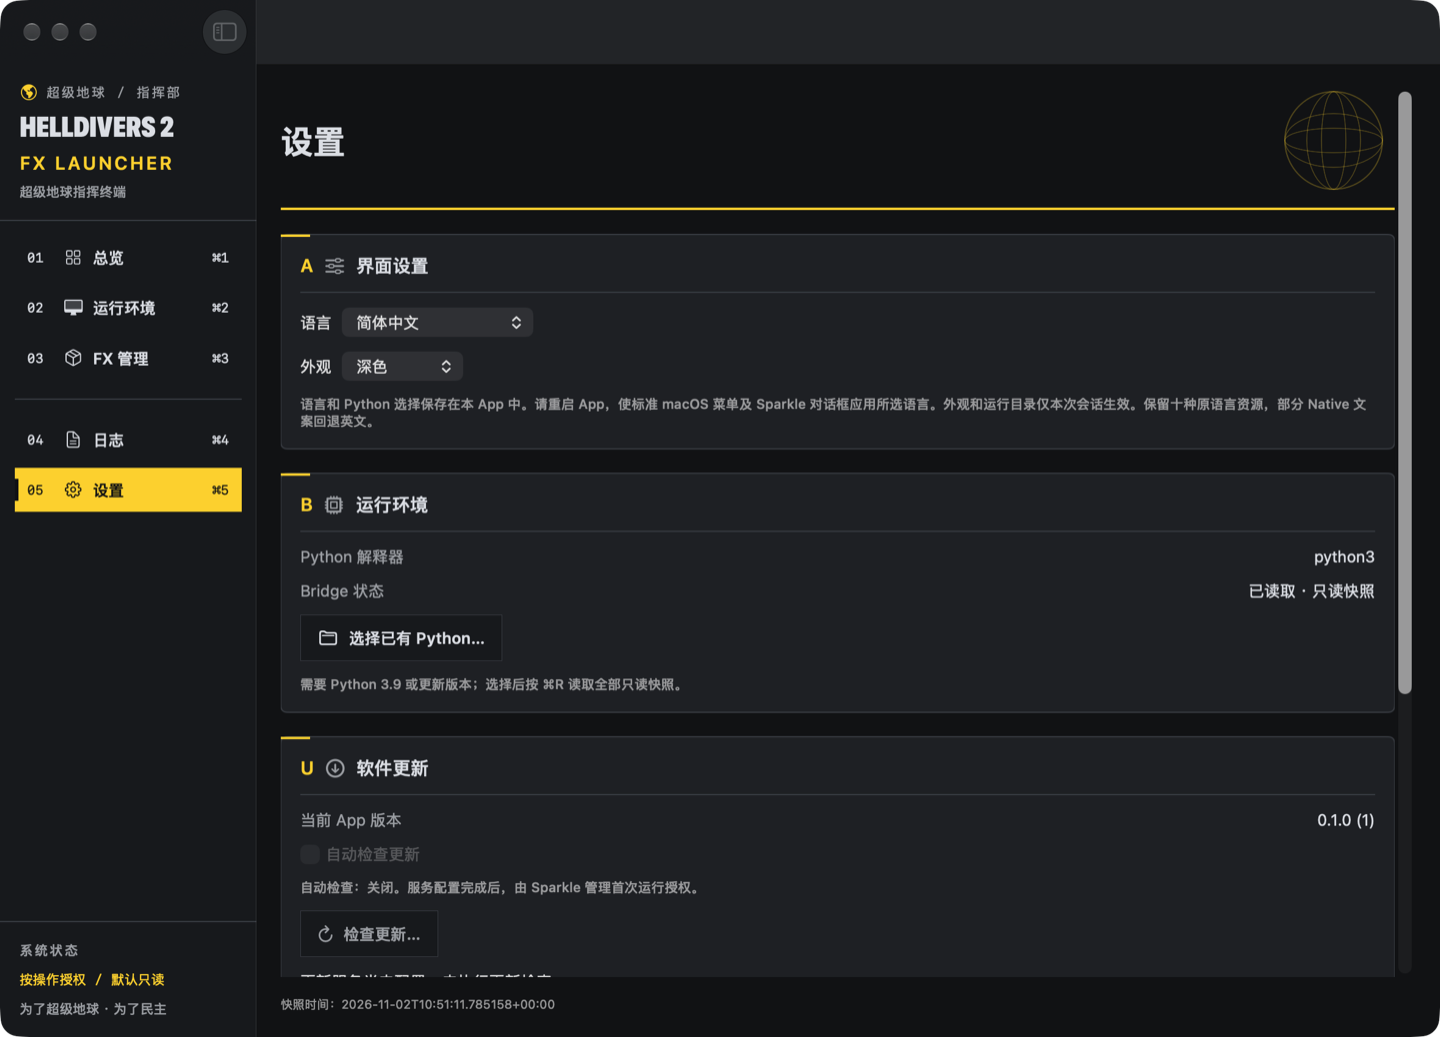
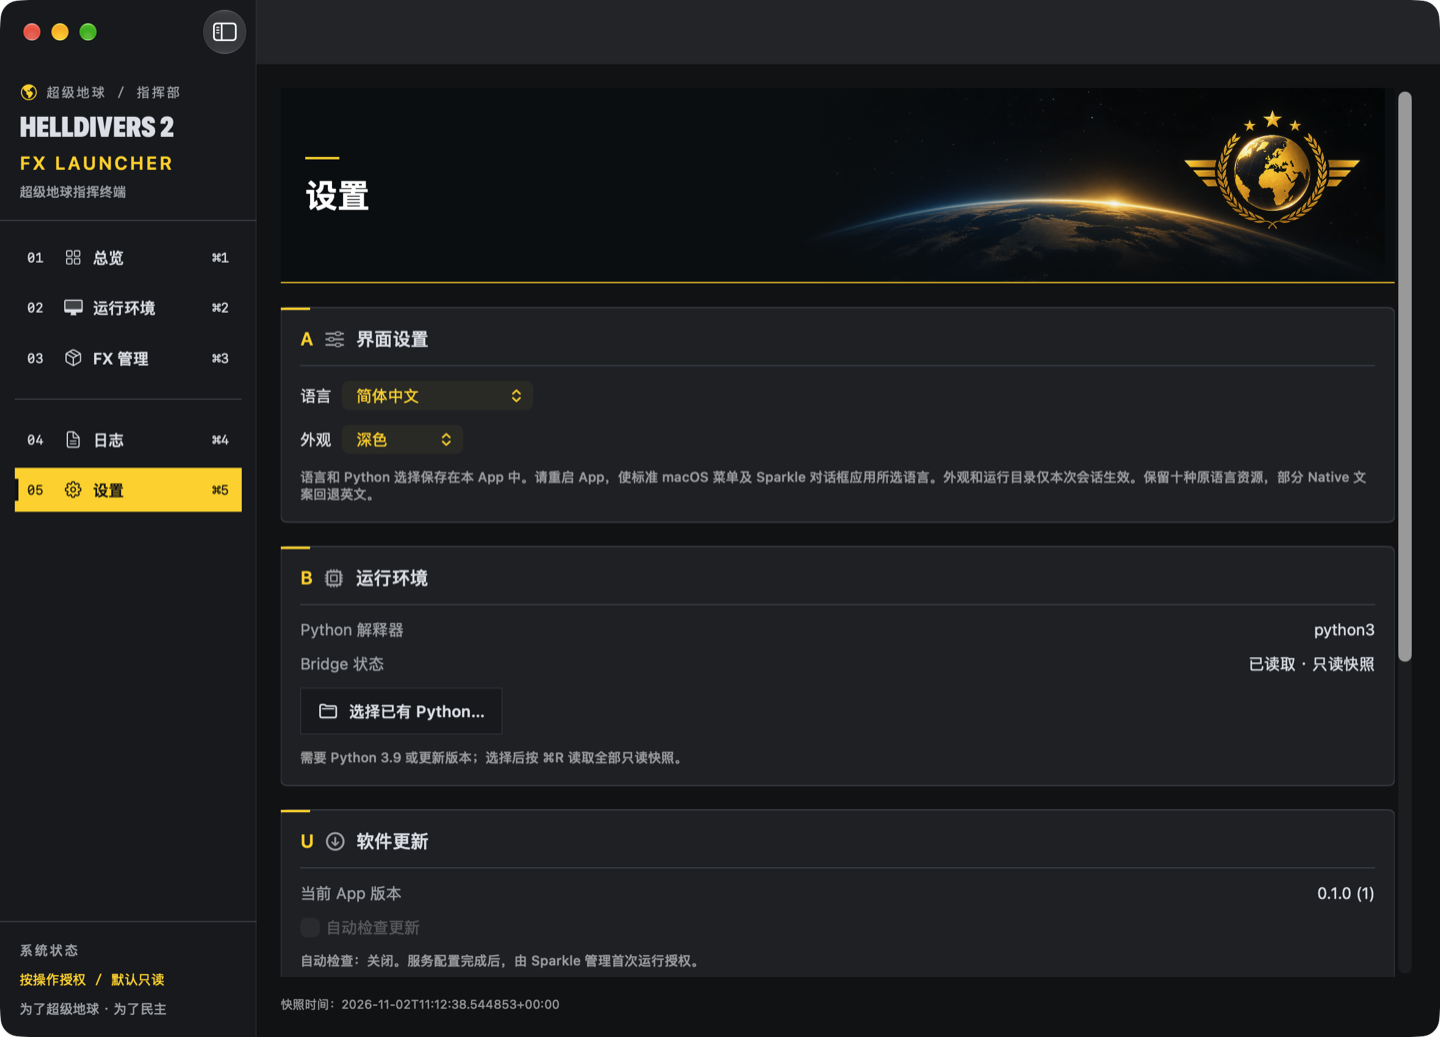
feat(native-ui): integrate super earth header artwork

diff --git a/native-app/App/DesignSystem/TacticalComponents.swift b/native-app/App/DesignSystem/TacticalComponents.swift
@@ -167,49 +167,50 @@ struct TacticalNavigationItem: View {
     }
 }
 
-struct SuperEarthGlobeDecoration: View {
-    @Environment(\.colorScheme) private var scheme
-    var body: some View {
-        Canvas { context, size in
-            let rect = CGRect(x: 10, y: 3, width: 80, height: 80)
-            let color = TacticalColors(scheme: scheme).accent.opacity(0.28)
-            context.stroke(Path(ellipseIn: rect), with: .color(color), lineWidth: 1)
-            for fraction in [0.25, 0.55] {
-                context.stroke(Path(ellipseIn: CGRect(x: 50 - 40 * fraction, y: 3, width: 80 * fraction, height: 80)), with: .color(color), lineWidth: 0.7)
-                context.stroke(Path(ellipseIn: CGRect(x: 10, y: 43 - 40 * fraction, width: 80, height: 80 * fraction)), with: .color(color), lineWidth: 0.7)
-            }
-        }.frame(width: 100, height: 86).accessibilityHidden(true).allowsHitTesting(false)
-    }
-}
-
-// One content heading per page; navigation identity belongs to the sidebar.
+// One shared secondary-page banner. Artwork is bundled, decorative and noninteractive.
 struct TacticalPageHeader: View {
     let title: String
     var refreshState: AppState? = nil
-    @Environment(\.colorScheme) private var scheme
+    private let height: CGFloat = 160
     var body: some View {
-        let c = TacticalColors(scheme: scheme)
-        VStack(alignment: .leading, spacing: 12) {
-            HStack(spacing: 12) {
-                ViewThatFits(in: .horizontal) {
-                    HStack(alignment: .firstTextBaseline, spacing: 12) {
-                        pageTitle
-                        Spacer(minLength: 12)
-                        if let refreshState { TacticalRefreshButton(state: refreshState, tasks: refreshState.tasks) }
+        GeometryReader { geometry in
+            ZStack(alignment: .leading) {
+                Color(red: 0.035, green: 0.043, blue: 0.055)
+                Image("SuperEarthSpaceHeader")
+                    .resizable()
+                    .aspectRatio(contentMode: .fit)
+                    // Fit the entire vertical composition, including all stars and wings.
+                    // On narrow windows only spare scenery at the left may leave the bounds.
+                    .frame(width: height * 3, height: height)
+                    .mask(LinearGradient(stops: [
+                        .init(color: .clear, location: 0),
+                        .init(color: .white, location: 0.45),
+                        .init(color: .white, location: 1)
+                    ], startPoint: .leading, endPoint: .trailing))
+                    .frame(width: geometry.size.width - 8, height: height, alignment: .trailing)
+                    .accessibilityHidden(true).allowsHitTesting(false)
+                VStack(alignment: .leading, spacing: 12) {
+                    Rectangle().fill(TacticalColors(scheme: .dark).yellow).frame(width: 28, height: 2)
+                    HStack(alignment: .center, spacing: 12) {
+                        Text(title).font(TacticalTypography.page).foregroundStyle(.white)
+                            .fixedSize(horizontal: false, vertical: true)
+                            .accessibilityIdentifier("page.title").accessibilityAddTraits(.isHeader)
+                        if let refreshState {
+                            TacticalRefreshButton(state: refreshState, tasks: refreshState.tasks)
+                                .fixedSize()
+                        }
                     }
-                    VStack(alignment: .leading, spacing: 10) {
-                        pageTitle
-                        if let refreshState { TacticalRefreshButton(state: refreshState, tasks: refreshState.tasks) }
-                    }
-                }.frame(maxWidth: .infinity, alignment: .leading)
-                SuperEarthGlobeDecoration()
+                }
+                // Reserve the right-hand emblem region so neither title nor button covers it.
+                .frame(width: max(1, geometry.size.width - 230), alignment: .leading)
+                .padding(.leading, 20)
             }
-            Rectangle().fill(c.yellow).frame(height: 2)
+            .clipped()
+            .overlay(alignment: .bottom) {
+                Rectangle().fill(TacticalColors(scheme: .dark).yellow).frame(height: 1)
+            }
         }
-    }
-    private var pageTitle: some View {
-        Text(title).font(TacticalTypography.page).foregroundStyle(TacticalColors(scheme: scheme).text)
-            .accessibilityIdentifier("page.title").accessibilityAddTraits(.isHeader)
+        .frame(height: height)
     }
 }
 
@@ -308,7 +309,10 @@ struct TacticalRefreshButton: View {
             }.font(TacticalTypography.caption).padding(.horizontal, 9).padding(.vertical, 7)
         }
         .buttonStyle(.plain)
-        .overlay(Rectangle().stroke(.secondary.opacity(0.4)))
+        .foregroundStyle(Color(white: 0.92))
+        .background(Color(white: 0.14))
+        .overlay(Rectangle().stroke(Color(white: 0.38), lineWidth: 1))
+        .opacity(tasks.busy ? 0.55 : 1)
         .disabled(tasks.busy)
         .help(state.t("刷新全部只读快照：本机环境、依赖、FX 安装、会话日志及功能清单；不会启动或修改运行环境。也可按 ⌘R。", "Refresh all read-only snapshots: host environment, dependencies, FX installations, session logs and capabilities. No runtime starts or changes. Also available with ⌘R."))
         .accessibilityIdentifier("refresh")

diff --git a/native-app/Support/SmokeRunner.swift b/native-app/Support/SmokeRunner.swift
@@ -317,6 +317,8 @@ import ApplicationServices
                 result["inspection_status_mapping"] = "PASS"
             }
             guard NSImage(named: "HelldiverHero") != nil else { throw ErrorState("HERO_ASSET_MISSING") }
+            guard let header = NSImage(named: "SuperEarthSpaceHeader"), abs(header.size.width / header.size.height - 3) < 0.01 else { throw ErrorState("HEADER_ASSET_MISSING") }
+            result["header_asset"] = "SuperEarthSpaceHeader loaded with original 3:1 ratio"
             state.chinese = true; state.appearance = .dark
             window.setContentSize(NSSize(width: 1180, height: 850))
             try await Task.sleep(nanoseconds: 300_000_000)
@@ -334,8 +336,8 @@ import ApplicationServices
                 files.append(file)
             }
             state.selection = .dashboard
-            for variant in (polish ? ["en-dark-minimum-logs", "en-dark-minimum-settings"] : heroOnly ? ["zh-dark-minimum-dashboard"] : ["en-dark-dashboard", "zh-light-dashboard", "zh-dark-minimum-dashboard"]) {
-                if polish { state.selection = variant.hasSuffix("logs") ? .logs : .settings }
+            for variant in (polish ? ["en-dark-minimum-logs", "en-dark-minimum-fx"] : heroOnly ? ["zh-dark-minimum-dashboard"] : ["en-dark-dashboard", "zh-light-dashboard", "zh-dark-minimum-dashboard"]) {
+                if polish { state.selection = variant.hasSuffix("logs") ? .logs : .fx }
                 state.chinese = !variant.hasPrefix("en")
                 state.appearance = variant.contains("light") ? .light : .dark
                 if variant.contains("minimum") { window.setContentSize(NSSize(width: 850, height: 560)) }
@@ -350,6 +352,12 @@ import ApplicationServices
             result["runtime_evidence"] = state.results["get_environment_status"]?["status"]?.text ?? "unknown"
             result["soldier_asset"] = "HelldiverHero asset catalog image loaded"
             result["result"] = state.observedAt == snapshot ? "PASS" : "FAIL"
+            if polish {
+                state.refresh()
+                try await waitForTask(state)
+                guard state.error == nil, state.observedAt != snapshot else { throw ErrorState("READ_ONLY_REFRESH_FAILED") }
+                result["read_only_refresh"] = "PASS"
+            }
             window.setContentSize(NSSize(width: 1180, height: 850))
             state.chinese = true; state.appearance = .dark
         } catch { result["result"] = "FAIL"; result["error"] = (error as? ErrorState)?.code ?? "UI_CHECK_FAILED" }

diff --git a/native-app/Views/LogsView.swift b/native-app/Views/LogsView.swift
@@ -38,7 +38,7 @@ struct LogsView: View {
     var body: some View {
         let c = TacticalColors(scheme: scheme)
         VStack(alignment: .leading, spacing: 18) {
-            TacticalPageHeader(title: state.t("运行日志", "Session logs"))
+            TacticalPageHeader(title: state.t("运行日志", "Session logs"), refreshState: state)
             TacticalWarningBanner(text: state.t("仅本次会话 App 与 Bridge 日志。原始日志没有等级字段时显示“未标级”，不会推断成功等级。", "App and bridge logs from this session only. Entries without an explicit severity remain unclassified; success is not inferred."))
             LegacyOperationsView(state: state, scope: "logs")
             ViewThatFits(in: .horizontal) {
@@ -70,7 +70,6 @@ struct LogsView: View {
     }
     private var logActions: some View {
         HStack(spacing: 8) {
-            TacticalRefreshButton(state: state, tasks: state.tasks)
             copyButton
         }
     }

diff --git a/AGENTS.md b/AGENTS.md
@@ -1,7 +1,7 @@
 # Native App development
 
-Instruction version: **v1.2.3** · Updated: **2026-11-02**.
-Change: prioritize real Native game launch validation, explicit menu confirmation and structured redacted launch diagnostics.
+Instruction version: **v1.2.4** · Updated: **2026-11-02**.
+Change: use the supplied space-header artwork on four shared secondary-page headers; preserve Dashboard and all runtime behavior.
 
 - Architecture: SwiftUI + narrowly scoped AppKit; one AppState and existing Service Layer. Refresh remains read-only. The functional migration permits allowlisted Core actions through the supervised Bridge, with explicit user initiation and consent for writes/launch/SSH. Unknown/unverified is never success. Development tests use isolated fixtures; real game/network/system changes require the corresponding user action.
 - Work on `feature/macos-native-app`; batch related changes, verify the affected behavior, commit and push the feature branch. Merge substantial completed stages into main only after appropriate checks. Never force-push, rewrite unknown history, delete releases/tags, or overwrite another developer's changes.
@@ -19,11 +19,13 @@ Change: prioritize real Native game launch validation, explicit menu confirmatio
 - Large complete development instructions require independent semantic versions (`vMAJOR.MINOR.PATCH`). Rule/workflow/testing/GitHub/budget changes that update the complete instruction default to a patch increment; larger process changes increment minor/major appropriately. Ordinary code changes do not increment instruction versions. Never reuse/reset versions. Record only current version, date and a short change note in this file; do not duplicate full prompt history. Instruction and software versions are independent.
 - Completion reports: completed work, GitHub branch state, necessary verification, real remaining issues, next direction. Keep them brief.
 
-UI instruction: **HD2_NATIVE_APP_UI_REFINEMENT_v1.0.2** · 2026-11-02. Five-page tactical visual system; the supplied generated soldier image is bundled as HelldiverHero and is Dashboard-only. Environment, FX, Logs and Settings share one small upper-right wireframe globe. Never use a whole UI preview as artwork or copy its example health states. Keep absent metadata explicit.
+UI instruction: **HD2_NATIVE_APP_UI_REFINEMENT_v1.0.2** · 2026-11-02. Five-page tactical visual system; the supplied generated soldier image is bundled as HelldiverHero and is Dashboard-only. Environment, FX, Logs and Settings use the shared space banner under the newer header-asset instruction. Never use a whole UI preview as artwork or copy its example health states. Keep absent metadata explicit.
 
-UI polish instruction: **HD2_NATIVE_APP_UI_POLISH_v1.0.1** · 2026-11-02. No titlebar refresh control. Keep full read-only refresh on Dashboard Check Environment, Environment/FX page headers, Logs toolbar and Cmd-R; Settings has no independent refresh. Use Network and connection tools / FX diagnostics / Diagnostic reports / Advanced configuration names. Distinguish not checked, checking, normal, action needed, failed and cannot confirm using actual probe scope. Installation metadata never establishes an active FX/Guest or EAC/multiplayer health. Keep update controls before advanced configuration and use adaptive tool grids. Preserve existing authorization, session-only credentials and redaction.
+UI polish instruction: **HD2_NATIVE_APP_UI_POLISH_v1.0.1** · 2026-11-02. No titlebar refresh control. Keep full read-only refresh on Dashboard Check Environment, Environment/FX/Logs page headers and Cmd-R; Settings has no independent refresh. Use Network and connection tools / FX diagnostics / Diagnostic reports / Advanced configuration names. Distinguish not checked, checking, normal, action needed, failed and cannot confirm using actual probe scope. Installation metadata never establishes an active FX/Guest or EAC/multiplayer health. Keep update controls before advanced configuration and use adaptive tool grids. Preserve existing authorization, session-only credentials and redaction.
 
 Information hierarchy instruction: **HD2_NATIVE_APP_UI_INFORMATION_HIERARCHY_v1.0.0** · 2026-11-02. Keep page names/numbers in the sidebar and one main heading in content. Remove redundant window page titles, content breadcrumbs and Dashboard command masthead. Place page actions beside the heading with a narrow-window fallback. Keep global read-only policy in the sidebar, component evidence at its component, and preserve all errors, risk/consent details, card functions and existing bindings.
+
+Header artwork instruction: **HD2_NATIVE_APP_HEADER_ASSET_REFINEMENT_v1.0.0** · 2026-11-02. Bundle the supplied standalone SuperEarthSpaceHeader artwork in Assets.xcassets; use it only in the shared TacticalPageHeader on Environment, FX, Logs and Settings, replacing the wireframe globe. Preserve aspect ratio and full emblem, reserve its right region, keep one title and a small refresh control beside it where refresh already exists. Logs keeps the same read-only refresh action; Settings has no new refresh. Dashboard hero/layout and all launch, credential, updater and Bridge behavior remain unchanged.
 
 Functional instruction: **HD2_NATIVE_APP_FUNCTION_MIGRATION_v1.0.0** · 2026-11-02. Reuse actual archived behavior; no fabricated success, EAC or multiplayer inference. Keep target/hash/boot guards and exact-change approvals. Preserve unknown configuration with revision checking, backup and atomic replacement. Bound/redact logs and provide cancellation. No FX installation changes, file deletion or high-risk system actions without explicit confirmation. Original locale coverage and new Native translation coverage must be reported separately.
 

diff --git a/README.md b/README.md
@@ -70,7 +70,7 @@ Sparkle 2.10.1 is integrated for Launcher-only updates, with shared menu/setting
 | [![Logs](docs/images/logs.png)](docs/images/logs.png) | [![Settings](docs/images/settings.png)](docs/images/settings.png) |
 
 > [!NOTE]
-> All five images were captured from the running Debug App on 2026-11-02 during `HD2_NATIVE_APP_UI_INFORMATION_HIERARCHY_v1.0.0`, using its real read-only snapshot. They show the five-page layout with one main content heading per page, not generated UI mockups. Lower sections remain accessible by scrolling. Images were proportionally reduced for the README; no status or UI was composited. No FX/game launch, EAC or multiplayer success is implied.
+> All five images were captured from the running Debug App on 2026-11-02 during `HD2_NATIVE_APP_HEADER_ASSET_REFINEMENT_v1.0.0`, using its real read-only snapshot. They show the shared space-artwork headers on the four secondary pages and the unchanged Dashboard hero, with one main content heading per page, not generated UI mockups. Lower sections remain accessible by scrolling. Images were proportionally reduced for the README; no status or UI was composited. No FX/game launch, EAC or multiplayer success is implied.
 
 <a id="en-requirements"></a>
 
@@ -158,7 +158,7 @@ Old main.zip links now download Native source; replace main with legacy-script i
 > [!WARNING]
 > **A detected installation ≠ a usable runtime ≠ a launched game ≠ verified EAC ≠ working multiplayer.** Each requires its own fresh evidence. User-submitted match outcomes remain user reports.
 
-This is an unofficial project with no claimed endorsement. No anti-cheat bypass or guaranteed compatibility is offered. The Dashboard image is a user-supplied generated illustration rendered inside the actual App; the software screenshots themselves are genuine captures.
+This is an unofficial project with no claimed endorsement. No anti-cheat bypass or guaranteed compatibility is offered. The Dashboard and space-header artwork are user-supplied generated illustrations rendered inside the actual App; the software screenshots themselves are genuine captures.
 
 <a id="en-license"></a>
 
@@ -218,7 +218,7 @@ No project-wide source license has been selected. Do not assume blanket redistri
 | [![Logs](docs/images/logs.png)](docs/images/logs.png) | [![Settings](docs/images/settings.png)](docs/images/settings.png) |
 
 > [!NOTE]
-> 五张均于 2026-11-02 的 `HD2_NATIVE_APP_UI_INFORMATION_HIERARCHY_v1.0.0` 检查中，从运行中的 Debug App 及其真实只读快照采集，展示每页仅保留一个主标题的五页布局，不是生成式 UI 预览图。下方区域可通过滚动查看。图片仅按比例缩小用于 README，没有合成界面或运行状态，不证明 FX／游戏启动、EAC 或联机成功。
+> 五张均于 2026-11-02 的 `HD2_NATIVE_APP_HEADER_ASSET_REFINEMENT_v1.0.0` 检查中，从运行中的 Debug App 及其真实只读快照采集，展示四个次级页面共享的太空横幅及保留的首页人物主视觉，每页仅保留一个主标题，不是生成式 UI 预览图。下方区域可通过滚动查看。图片仅按比例缩小用于 README，没有合成界面或运行状态，不证明 FX／游戏启动、EAC 或联机成功。
 
 <a id="zh-requirements"></a>
 
@@ -306,7 +306,7 @@ Native 包版本 **0.1.0**、构建号 **1** 来自 [Xcode 工程](native-app/HD
 > [!WARNING]
 > **检测到安装 ≠ 运行环境可用 ≠ 游戏启动成功 ≠ EAC 验证成功 ≠ 多人联机成功。** 每项都需要独立的新鲜证据，用户录入的匹配结果仍属于用户报告。
 
-本项目非官方，不宣称获得官方认可，不提供反作弊绕过或兼容性保证。首页插图为用户提供的生成式素材，在真实 App 中渲染；软件截图本身均为实际窗口采集。
+本项目非官方，不宣称获得官方认可，不提供反作弊绕过或兼容性保证。首页及太空横幅插图为用户提供的生成式素材，在真实 App 中渲染；软件截图本身均为实际窗口采集。
 
 <a id="zh-license"></a>
 
